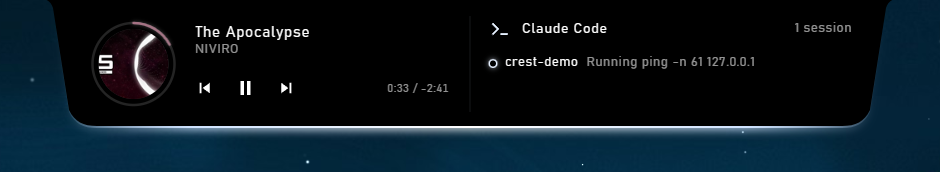
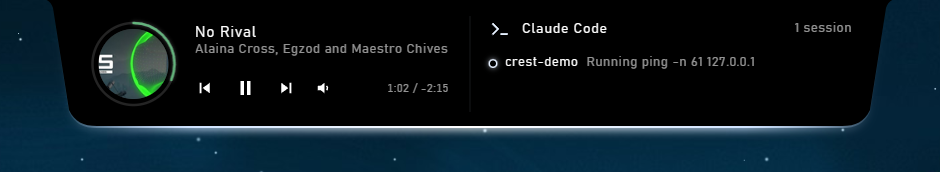
Update README pictures and layout

diff --git a/README.md b/README.md
@@ -1,7 +1,7 @@
 # Crest
 
 <p align="center">
-  <img src="docs/crest-demo.gif" width="520" alt="Crest: a black notch with sloped sides hangs from the top of the screen, its lower edge lit violet; it shows the song with its cover in a progress ring, glides open into the player when the pointer rests on it, skips to the next track, and closes again">
+  <img src="docs/crest-demo.gif" width="476" alt="Crest: a black notch with sloped sides hangs from the top of the screen, its lower edge lit violet; it shows the song with its cover in a progress ring, glides open into the player when the pointer rests on it, skips to the next track, and closes again">
 </p>
 
 > **A personal hobby project**: something I wanted on my own desktop, so I built it. Works on my setup (Windows 11, YouTube Music in Brave, the Spotify app); shared as-is, no support guaranteed.
@@ -18,17 +18,17 @@ Crest's tray icon (notification area, possibly behind the ^ arrow) has **Setting
 
 ## What it looks like
 
-<p align="center">
-  <img src="docs/crest-expanded.png" width="520" alt="The open pill: the cover inside a ring showing the song's progress, title and artist, previous, pause and next buttons, the speaker button for the system volume, and the time">
-</p>
-
-<p align="center">
-  <img src="docs/crest-dashboard.png" width="760" alt="The open dashboard: the music on the left, Claude Code's sessions on the right, the lower edge lit white because Claude Code is working">
-</p>
-
 Closed, it's a small black notch with sloped sides (a "visor") showing the cover in its progress ring and the title; a click on it goes to whatever is under it (a browser tab, say). Rest the pointer on it for a moment (or wait for a new song) and it glides open; with music and Claude Code at once, it opens into a dashboard with one tile each, music always on the left. It slides up into the screen edge when there's nothing to show.
 
+<p align="center">
+  <img src="docs/crest-expanded.png" width="476" alt="The open pill: the cover inside a ring showing the song's progress, title and artist, previous, pause and next buttons, the speaker button for the system volume, and the time">
+</p>
+
 In the open music tile, a speaker button after next-track slides out a thin slider for the **system volume** (all sound, like the speaker icon in the taskbar). The playback buttons step aside while it's open; it follows the volume keys, the mouse wheel moves it 2 % per notch, and it slides back by itself a few seconds after you leave it. Moving it while muted turns the sound back on, as Windows' own slider does. It isn't a replacement for Windows' volume popup.
+
+<p align="center">
+  <img src="docs/crest-dashboard.png" width="799" alt="The open dashboard: the music on the left, Claude Code's sessions on the right, the lower edge lit white because Claude Code is working">
+</p>
 
 The notch's lower edge is lit, and the light says what's going on, so you don't have to read anything:
 
@@ -40,12 +40,12 @@ The notch's lower edge is lit, and the light says what's going on, so you don't 
 
 A change of colour travels along the edge as one sweep of light, and a new track or a new status line sends one sweep too; then the light stands still. The text is Windows 11's own Bahnschrift, so nothing extra is bundled.
 
-<sub>Music in the demo: "The Apocalypse" by NIVIRO, and "Dreams pt. II" by Lost Sky (feat. Sara Skinner), NCS releases, provided by [NoCopyrightSounds](https://ncs.io).</sub>
+<sub>Music in the demo: "DÉVOTION" by IYCE MANN, and "No Rival" by Egzod, Maestro Chives and Alaina Cross, NCS releases, provided by [NoCopyrightSounds](https://ncs.io).</sub>
 
 ## What makes Crest different
 
 - **Private by default.** Crest sends no telemetry and needs no account. It reads what's playing only from Windows' own media controls (SMTC): no scraping, no unofficial APIs, no cookies. Future integrations will be off until you switch them on, use free APIs only, talk to their own service only, and keep any keys in Windows Credential Manager (never in files).
-- **Light on your PC.** Everything is event-driven, with no polling loops: nothing runs while idle, paused or hidden (measured: 0.1% of one core with the pill hidden, WebView2's own housekeeping). While music plays, the progress ring moves once a second, together with the time while open; the light only moves for a moment when something changes. While hidden, Crest asks WebView2 to keep as little in RAM as it can: about 16–40 MB in Task Manager (measured). The settings window only exists while it's open.
+- **Light on your PC.** Everything is event-driven, with no polling loops: nothing runs while idle, paused or hidden (measured: 0.1% of one core with the pill hidden, WebView2's own housekeeping). The one thing that wakes it is the mouse moving: Crest gets a copy of each mouse report so the closed pill can open when you rest on it (measured: about 0.5% of one core while the mouse moves non-stop, nothing while it's still). While music plays, the progress ring moves once a second, together with the time while open; the light only moves for a moment when something changes. While hidden, Crest asks WebView2 to keep as little in RAM as it can: about 16–40 MB in Task Manager (measured). The settings window only exists while it's open.
 - **Built for Linux too (planned).** All Windows-specific code (media and window behavior) sits behind small interfaces, so a KDE Plasma on Wayland version can plug in next to it: MPRIS for media, layer-shell for the pill window. Not built yet.
 
 ## How it's built
